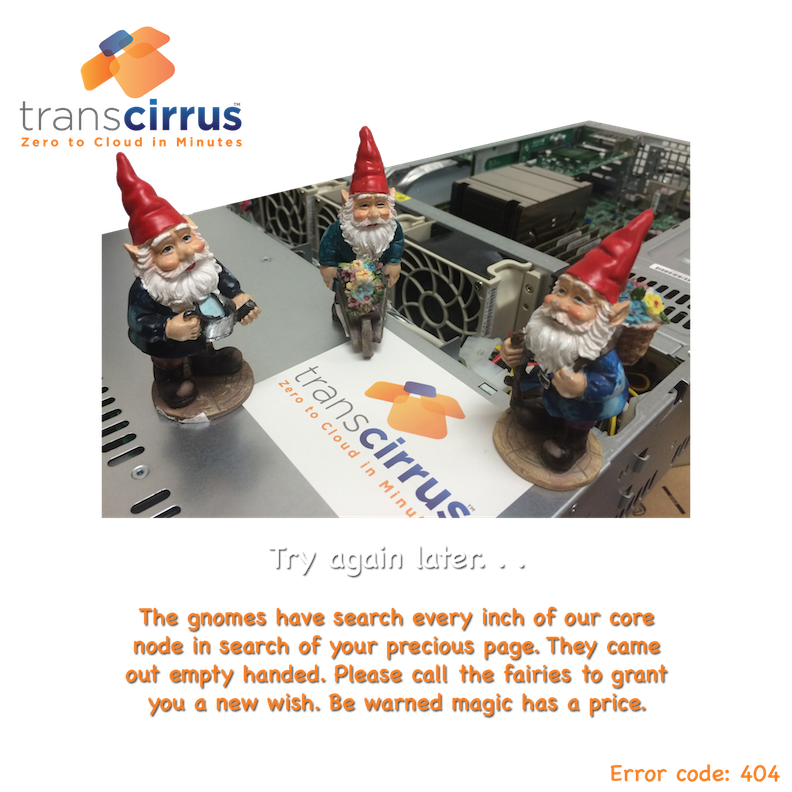
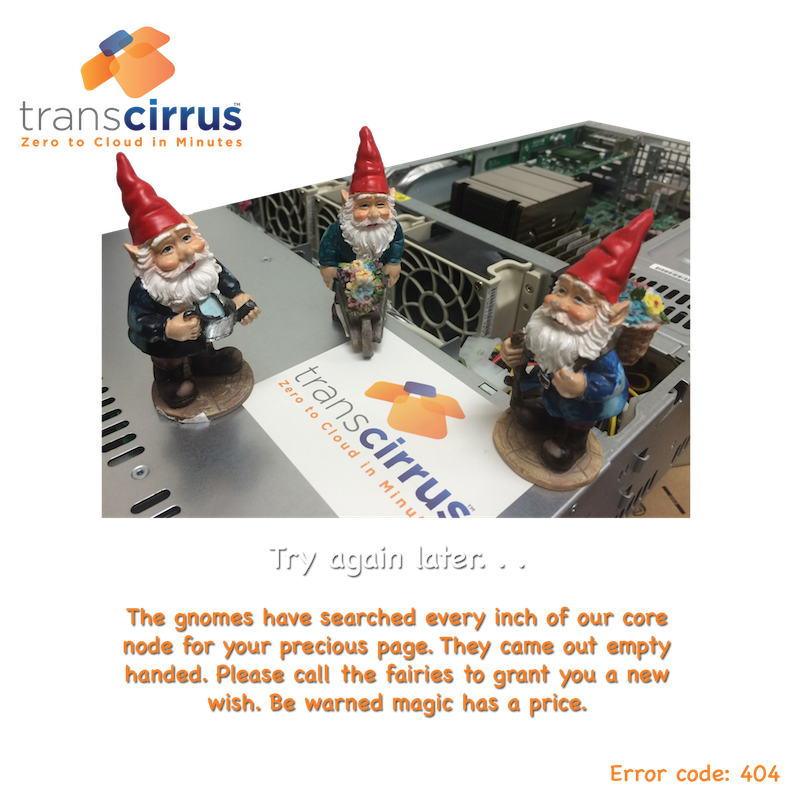
Spelling error on the 404 page

Changed region(s): [[0.1515, 0.7576, 0.8485, 0.9091]]

diff --git a/interfaces/Coalesce/settings.py b/interfaces/Coalesce/settings.py
@@ -13,7 +13,7 @@ SRC_PATH =  os.path.join(PROJECT_PATH, 'src')
 if SRC_PATH not in sys.path:
     sys.path.insert(1, SRC_PATH)
 
-DEBUG = False
+DEBUG = True
 TEMPLATE_DEBUG = DEBUG
 
 ADMINS = (
